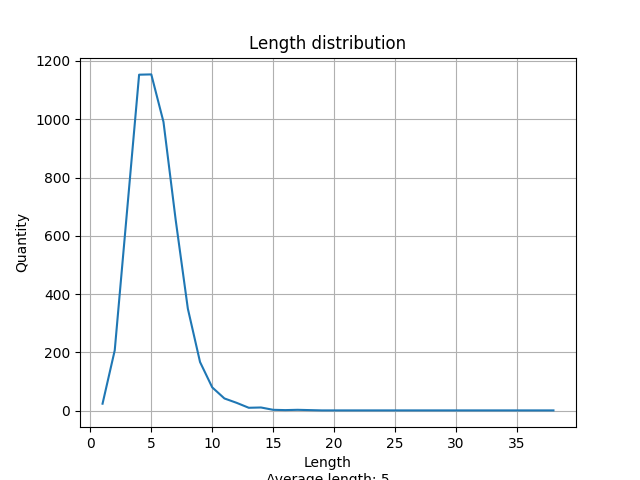
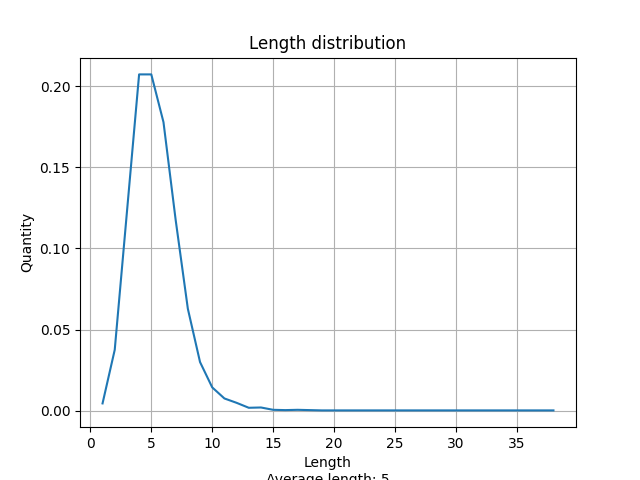
Plot Normalizing

diff --git a/text_processing.py b/text_processing.py
@@ -16,9 +16,10 @@ def cleanup_text(source):
 
 # Deleting stop words from external file
 def delete_stop_words(sw_filename, src_string):
-    for x in range(2):
-        stop_words_file = open(SOURCE_DIR + "/" + sw_filename, "r")
 
+    stop_words_file = open(SOURCE_DIR + "/" + sw_filename, "r")
+
+    for x in range(2):
         stop_words_list = get_list_of_lines_from_file(stop_words_file)
 
         for line in stop_words_list:

diff --git a/word_stat.py b/word_stat.py
@@ -134,7 +134,7 @@ def build_plot_distribution_of_lengths(src_filename, output_filename):
     # Splitting the list in two (lengths and quantities) to build plot
     for item in quantity_lengths_list:
         lengths_list.append(item.length)
-        quantities_list.append(item.quantity)
+        quantities_list.append(item.quantity / len(src_list))
 
     # Calc average length
     for i in range(0, len(lengths_list)):

diff --git a/DataCleaner.py b/DataCleaner.py
@@ -1,5 +1,6 @@
 from services import *
-from constants import *
+from text_processing import *
+from word_stat import *
 
 src_file = open(SOURCE_DIR + "/" + MAIN_SOURCE_FILENAME, "r")
 

diff --git a/PlotBuilder.py b/PlotBuilder.py
@@ -1,5 +1,4 @@
-from services import *
-from constants import *
+from word_stat import *
 
 # Build plot of ham messages length distribution
 build_plot_distribution_of_lengths(
